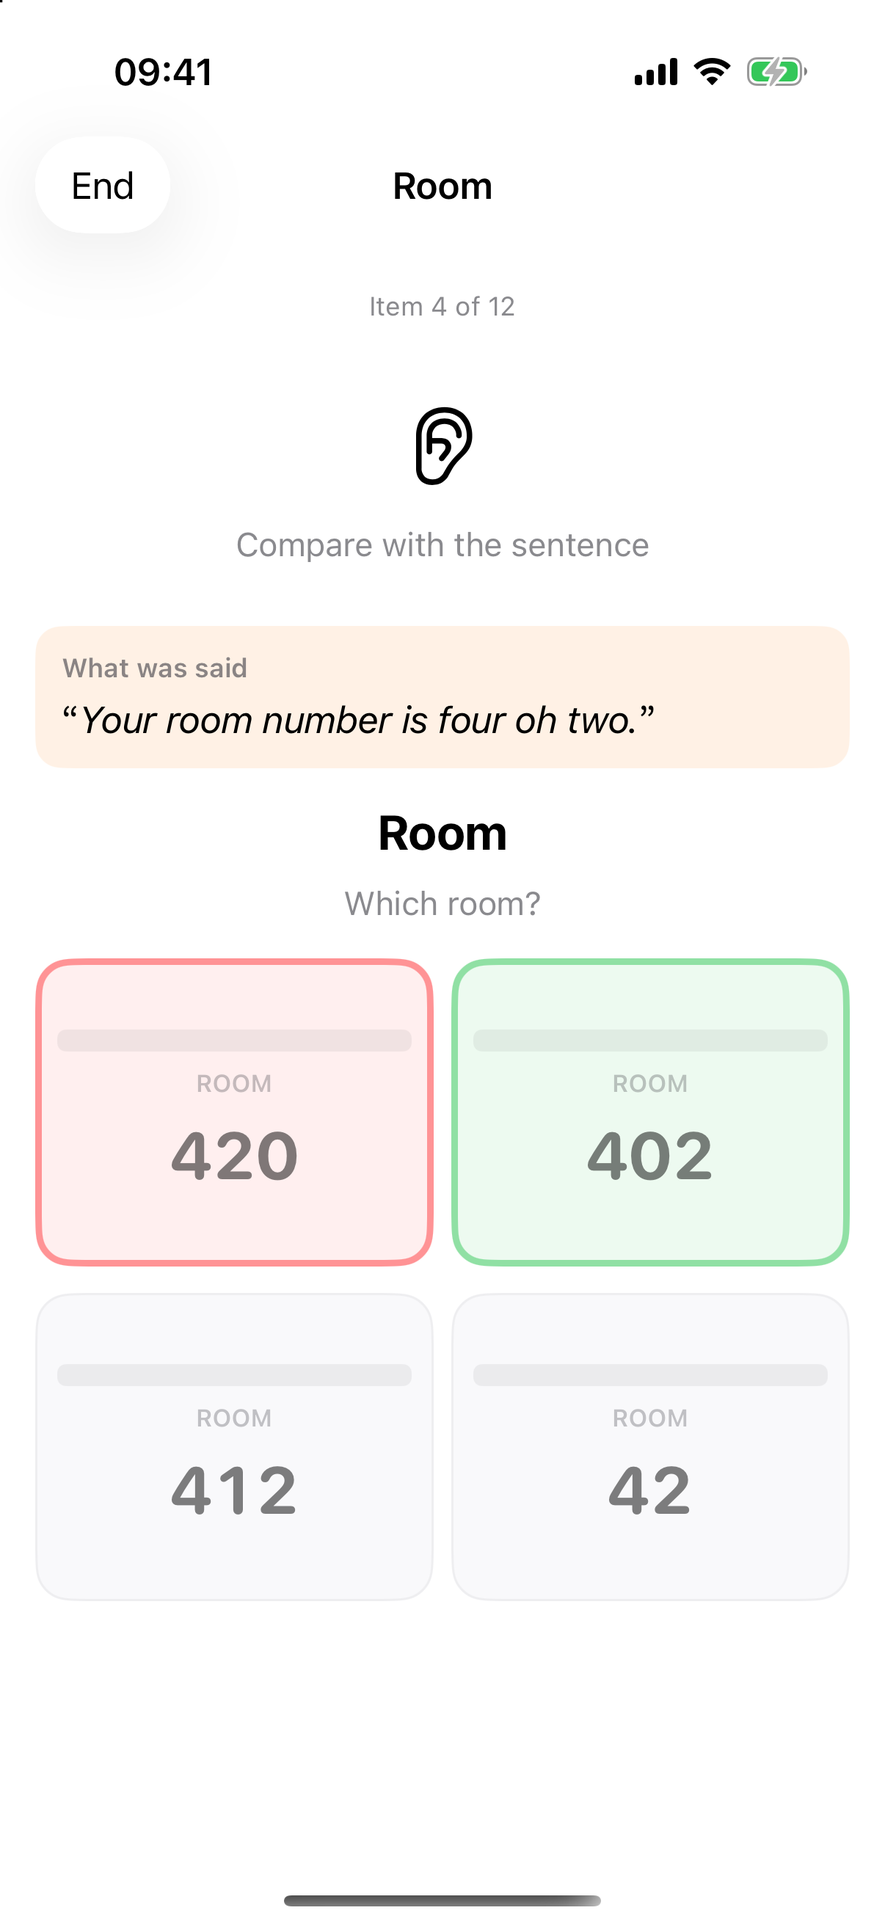
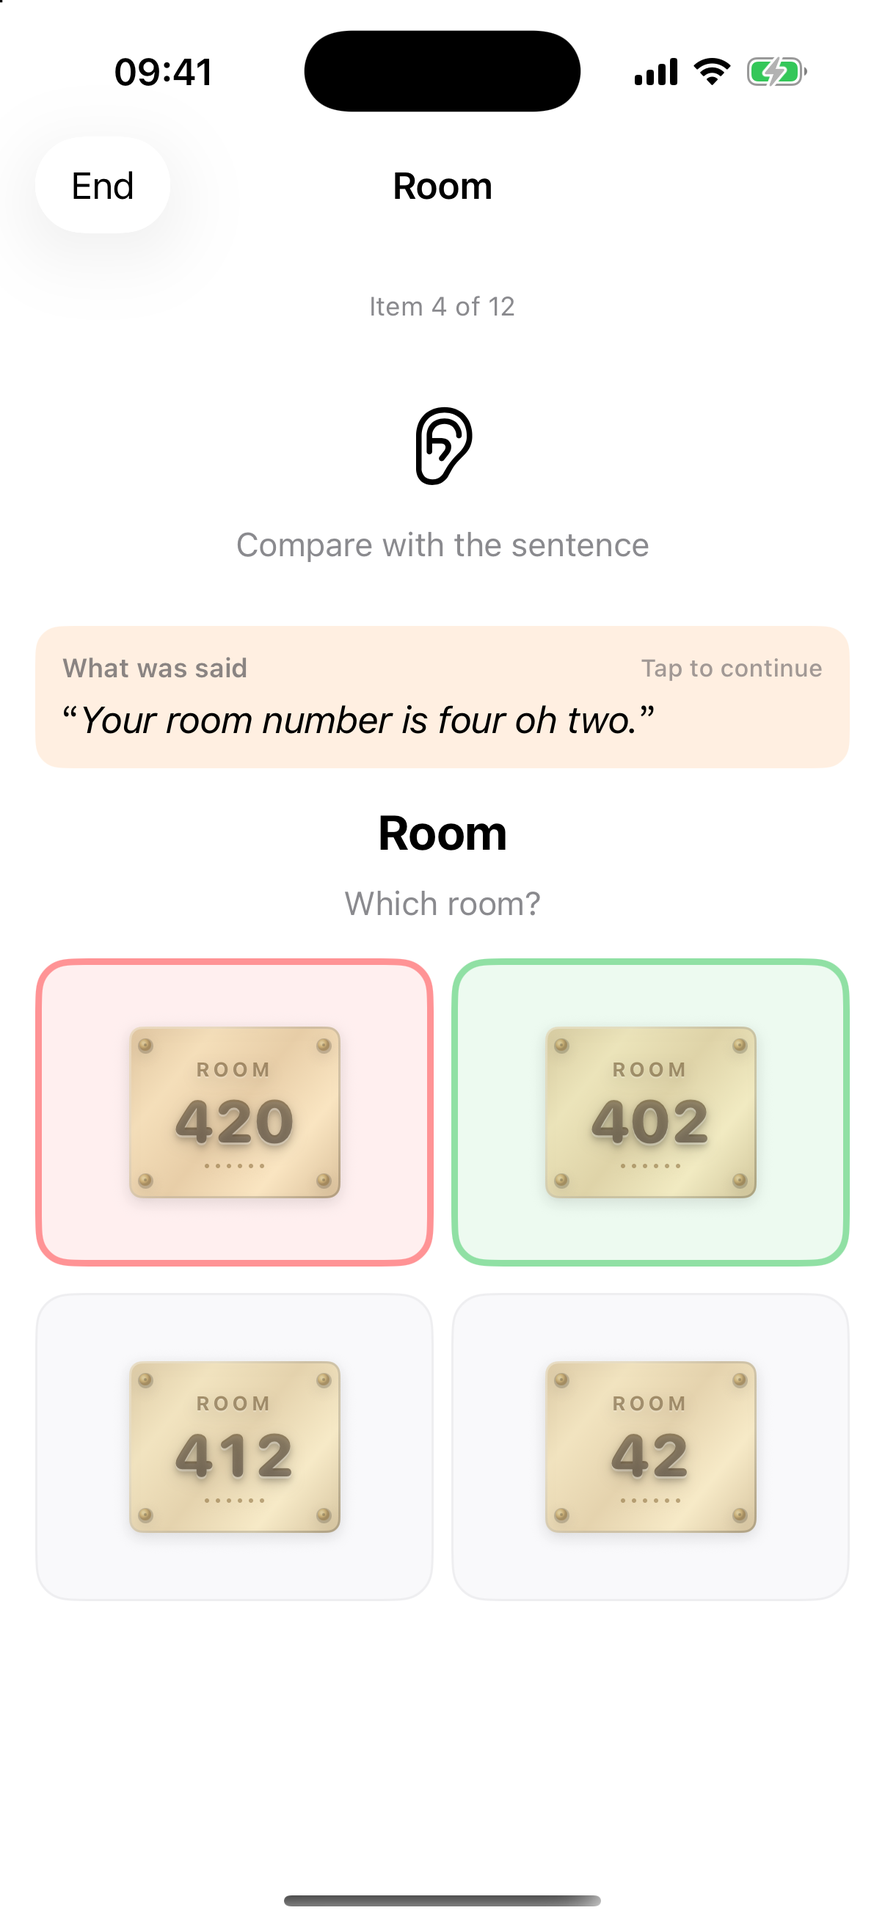
Update README with badges, feature details, and refreshed screenshots

diff --git a/NumSense/App/ScreenshotHelper.swift b/NumSense/App/ScreenshotHelper.swift
@@ -43,6 +43,7 @@ enum ScreenshotHelper {
                 model.queue = Array(repeating: item, count: 12)
                 model.itemIndex = 3
                 model.slotIndex = 0
+                model.itemSlotCorrect = [false]
                 let slot = item.slots[0]
                 let wrongChoice = slot.distractors.first ?? slot.value
                 model.live = LiveSlotState(
@@ -73,131 +74,80 @@ enum ScreenshotHelper {
         let cal = Calendar.current
         let now = Date()
 
-        for dayOffset in (0..<5).reversed() {
-            guard let sessionDate = cal.date(byAdding: .day, value: -dayOffset, to: now) else { continue }
-            let isToday = dayOffset == 0
-            let correctCount = isToday ? 11 : 10
+        // Daily median progression across 7 days: ~2.2s down to ~1.22s
+        let dayFactors: [Double] = [1.75, 1.55, 1.40, 1.25, 1.12, 1.05, 0.95]
 
-            let itemAttempts: [ItemAttemptRecord] = [
-                ItemAttemptRecord(
-                    id: UUID(),
-                    itemId: "time-0315-alt",
-                    scenario: "time",
-                    scriptText: "It's a quarter after three.",
-                    audioFile: "time-0315-alt.m4a",
-                    variantTags: ["quarter-after"],
-                    presentedAt: sessionDate,
-                    itemFirstListenCorrect: true,
-                    slotAttempts: [
-                        SlotAttemptRecord(
-                            id: UUID(),
-                            slotId: "t",
-                            slotIndex: 0,
-                            role: "clock",
-                            visual: "clock",
-                            correctValue: SlotValue(type: "clock", hour: 3, minute: 15),
-                            chosenValue: SlotValue(type: "clock", hour: 3, minute: 15),
-                            distractors: [],
-                            firstTapCorrect: true,
-                            responseMs: 1400,
-                            replayedAfterWrong: false,
-                            confusionTag: nil
-                        )
-                    ]
-                ),
-                ItemAttemptRecord(
-                    id: UUID(),
-                    itemId: "room-402-0",
-                    scenario: "room",
-                    scriptText: "Your room number is four oh two.",
-                    audioFile: "room-402-0.m4a",
-                    variantTags: [],
-                    presentedAt: sessionDate,
-                    itemFirstListenCorrect: false,
-                    slotAttempts: [
-                        SlotAttemptRecord(
-                            id: UUID(),
-                            slotId: "r",
-                            slotIndex: 0,
-                            role: "room",
-                            visual: "door",
-                            correctValue: SlotValue(type: "door", text: "402"),
-                            chosenValue: SlotValue(type: "door", text: "420"),
-                            distractors: [],
-                            firstTapCorrect: false,
-                            responseMs: 2100,
-                            replayedAfterWrong: true,
-                            confusionTag: "oh-vs-hundred"
-                        )
-                    ]
-                ),
-                ItemAttemptRecord(
-                    id: UUID(),
-                    itemId: "money-1250-8",
-                    scenario: "money",
-                    scriptText: "Twelve dollars and fifty cents.",
-                    audioFile: "money-1250-8.m4a",
-                    variantTags: [],
-                    presentedAt: sessionDate,
-                    itemFirstListenCorrect: true,
-                    slotAttempts: [
-                        SlotAttemptRecord(
-                            id: UUID(),
-                            slotId: "m",
-                            slotIndex: 0,
-                            role: "price",
-                            visual: "price",
-                            correctValue: SlotValue(type: "price", cents: 1250),
-                            chosenValue: SlotValue(type: "price", cents: 1250),
-                            distractors: [],
-                            firstTapCorrect: true,
-                            responseMs: 1200,
-                            replayedAfterWrong: false,
-                            confusionTag: nil
-                        )
-                    ]
-                ),
-                ItemAttemptRecord(
-                    id: UUID(),
-                    itemId: "mix-air-218-c18",
-                    scenario: "mixed",
-                    scriptText: "Flight two eighteen, gate C eighteen.",
-                    audioFile: "mix-air-218-c18.m4a",
-                    variantTags: ["airport"],
-                    presentedAt: sessionDate,
-                    itemFirstListenCorrect: true,
-                    slotAttempts: [
-                        SlotAttemptRecord(
-                            id: UUID(),
-                            slotId: "f",
-                            slotIndex: 0,
-                            role: "flight",
-                            visual: "flight",
-                            correctValue: SlotValue(type: "flight", text: "218"),
-                            chosenValue: SlotValue(type: "flight", text: "218"),
-                            distractors: [],
-                            firstTapCorrect: true,
-                            responseMs: 1600,
-                            replayedAfterWrong: false,
-                            confusionTag: nil
-                        ),
-                        SlotAttemptRecord(
-                            id: UUID(),
-                            slotId: "g",
-                            slotIndex: 1,
-                            role: "gate",
-                            visual: "gate",
-                            correctValue: SlotValue(type: "gate", letter: "C", number: 18),
-                            chosenValue: SlotValue(type: "gate", letter: "C", number: 18),
-                            distractors: [],
-                            firstTapCorrect: true,
-                            responseMs: 1500,
-                            replayedAfterWrong: false,
-                            confusionTag: nil
-                        )
-                    ]
-                )
+        for dayOffset in (0..<7).reversed() {
+            guard let sessionDate = cal.date(byAdding: .day, value: -dayOffset, to: now) else { continue }
+            let factorIndex = 6 - dayOffset
+            let speedFactor = dayFactors[factorIndex]
+            let isToday = dayOffset == 0
+
+            let items: [(itemId: String, sc: String, text: String, slots: [(role: String, visual: String, val: SlotValue, baseMs: Int, ok: Bool, tag: String?)])] = [
+                ("time-0315-alt", "time", "It's a quarter after three.", [("clock", "clock", SlotValue(type: "clock", hour: 3, minute: 15), 1250, true, nil)]),
+                ("room-402-0", "room", "Your room number is four oh two.", [("room", "door", SlotValue(type: "door", text: "402"), 1350, true, nil)]),
+                ("money-1250-8", "money", "Twelve dollars and fifty cents.", [("price", "price", SlotValue(type: "price", cents: 1250), 1080, true, nil)]),
+                ("travel-exit-14", "travel", "Take exit fourteen B.", [("exit", "exit", SlotValue(type: "exit", text: "14B"), 1180, true, nil)]),
+                ("mix-air-218-c18", "mixed", "Flight two eighteen, gate C eighteen.", [
+                    ("flight", "flight", SlotValue(type: "flight", text: "218"), 1400, true, nil),
+                    ("gate", "gate", SlotValue(type: "gate", letter: "C", number: 18), 1580, true, nil)
+                ]),
+                ("measures-temp-72", "measures", "It's seventy two degrees outside.", [("temperature", "temperature", SlotValue(type: "temperature", degrees: 72), 1220, true, nil)]),
+                ("date-oct-23", "date", "Our flight is on October twenty-third.", [("calendar", "calendar", SlotValue(type: "calendar", month: 10, day: 23), 1260, true, nil)]),
+                ("phone-chunk-800", "phone", "Call us at eight hundred, five five five.", [
+                    ("phone", "phone", SlotValue(type: "phone", text: "800"), 1320, true, nil),
+                    ("phone", "phone", SlotValue(type: "phone", text: "555"), 2150, isToday ? false : (dayOffset % 2 == 0), "speed-decay")
+                ]),
+                ("address-oak-742", "address", "Seven forty two Evergreen Terrace.", [("address", "address", SlotValue(type: "address", text: "742"), 1300, true, nil)]),
+                ("time-0845-0", "time", "It's eight forty-five.", [("clock", "clock", SlotValue(type: "clock", hour: 8, minute: 45), 1180, true, nil)])
             ]
+
+            var itemAttempts: [ItemAttemptRecord] = []
+            var sessionTotalSlots = 0
+            var sessionCorrectSlots = 0
+
+            for (itemId, sc, text, slotDefs) in items {
+                var slotRecords: [SlotAttemptRecord] = []
+                var itemCorrect = true
+                for (idx, slotDef) in slotDefs.enumerated() {
+                    let adjustedMs = Int(Double(slotDef.baseMs) * speedFactor)
+                    let slotOk = isToday ? slotDef.ok : (slotDef.ok && (dayOffset < 3 || idx == 0))
+                    if !slotOk { itemCorrect = false }
+                    sessionTotalSlots += 1
+                    if slotOk { sessionCorrectSlots += 1 }
+
+                    slotRecords.append(
+                        SlotAttemptRecord(
+                            id: UUID(),
+                            slotId: "\(idx)",
+                            slotIndex: idx,
+                            role: slotDef.role,
+                            visual: slotDef.visual,
+                            correctValue: slotDef.val,
+                            chosenValue: slotDef.val,
+                            distractors: [],
+                            firstTapCorrect: slotOk,
+                            responseMs: adjustedMs,
+                            replayedAfterWrong: !slotOk,
+                            confusionTag: slotDef.tag
+                        )
+                    )
+                }
+
+                itemAttempts.append(
+                    ItemAttemptRecord(
+                        id: UUID(),
+                        itemId: itemId,
+                        scenario: sc,
+                        scriptText: text,
+                        audioFile: "\(itemId).m4a",
+                        variantTags: [],
+                        presentedAt: sessionDate,
+                        itemFirstListenCorrect: itemCorrect,
+                        slotAttempts: slotRecords
+                    )
+                )
+            }
 
             let session = SessionRecord(
                 id: UUID(),
@@ -213,9 +163,9 @@ enum ScreenshotHelper {
                     sessionLength: 12,
                     playInSilentMode: true
                 ),
-                itemCount: 4,
-                slotCount: 12,
-                firstListenCorrectSlots: correctCount,
+                itemCount: itemAttempts.count,
+                slotCount: sessionTotalSlots,
+                firstListenCorrectSlots: sessionCorrectSlots,
                 itemAttempts: itemAttempts
             )
             log.append(session)

diff --git a/README.md b/README.md
@@ -1,47 +1,109 @@
 <p align="center">
-  <img src="design/AppIcon-preview-rounded.png" width="128" height="128" alt="NumSense">
+  <img src="design/AppIcon-preview-rounded.png" width="128" height="128" alt="NumSense"><br/>
+  <a href="https://developer.apple.com/ios/"><img src="https://img.shields.io/badge/Platform-iOS%2017.0%2B-007AFF?style=flat-square&logo=apple&logoColor=white" alt="iOS 17+"></a>
+  <a href="https://swift.org"><img src="https://img.shields.io/badge/Swift-5.9%2B-F05138?style=flat-square&logo=swift&logoColor=white" alt="Swift 5.9+"></a>
+  <a href="https://developer.apple.com/xcode/swiftui/"><img src="https://img.shields.io/badge/SwiftUI-Charts-FF5A00?style=flat-square&logo=swift&logoColor=white" alt="SwiftUI & Swift Charts"></a>
+  <a href="https://elevenlabs.io"><img src="https://img.shields.io/badge/Audio-ElevenLabs%20Speech-black?style=flat-square" alt="ElevenLabs Speech"></a>
+  <a href="LICENSE"><img src="https://img.shields.io/badge/License-MIT-34C759?style=flat-square" alt="MIT License"></a>
+  <img src="https://img.shields.io/badge/Privacy-100%25%20Offline%20%2F%20Zero%20Tracking-blueviolet?style=flat-square" alt="100% Offline">
 </p>
 
 # NumSense · 数字语感
 
 听一遍美式口语里的数字，当场当成信息留下来——几点、几号房、多少钱、哪个登机口。
 
-英语数字常常听得懂，却转眼就忘，或要先在脑子里翻成中文才记得住。NumSense 练的是把听到的数字直接留成可用信息，再在钟面、日历、门牌、价签这些画面上认出来。
+英语数字常常“听得懂，转眼忘”，或者必须在脑子里先翻成中文才能反应。**NumSense** 专为重塑**直觉数字语感**而生：跳过脑内中文转译，把听到的数字直接映射为真实生活场景中的画面，专项锻炼听觉短时工作记忆与毫秒级直觉反应力。
 
-本 App **不上架 App Store**，用 Xcode 自签名装到 iPhone 即可。主屏幕名称是「数字语感」，界面为英文。
+本 App **不上架 App Store**，用个人 Apple ID 自签名即可装到任意 iPhone。主屏幕名称为「数字语感」，界面为英文。
+
+---
 
 ## 界面预览
 
-| 主界面 | 钟面时间识别 | 复合场景分步识别 |
+| 主界面 | 钟面时间直觉反应 | 复合场景分步识别 |
 | :---: | :---: | :---: |
-| <img src="docs/screenshots/01-home.png" width="240" alt="主界面" /> | <img src="docs/screenshots/02-practice-clock.png" width="240" alt="钟面时间识别" /> | <img src="docs/screenshots/03-practice-multistep.png" width="240" alt="复合场景分步识别" /> |
-| 快速开始与近期训练统计 | 听口语时间，直觉反应表盘 | 航班与登机口多信息留存 |
+| <img src="docs/screenshots/01-home.png" width="240" alt="主界面" /> | <img src="docs/screenshots/02-practice-clock.png" width="240" alt="钟面时间直觉反应" /> | <img src="docs/screenshots/03-practice-multistep.png" width="240" alt="复合场景分步识别" /> |
+| 极简开始与 7 天连续训练打卡 | 真实拟物表盘与物理指针映射 | 航班号与登机口多信息留存 |
 
-| 即时纠错与原文对照 | 单次训练小结 | 本地长期统计 |
+| 即时纠错与原句对照 | 训练小结与心流节奏 | 多维语感长期趋势 |
 | :---: | :---: | :---: |
-| <img src="docs/screenshots/04-feedback.png" width="240" alt="即时纠错与原文对照" /> | <img src="docs/screenshots/05-summary.png" width="240" alt="单次训练小结" /> | <img src="docs/screenshots/06-stats.png" width="240" alt="本地长期统计" /> |
-| 标出正误并提供原句反馈 | 场景得分与一键复习错题 | 7天/30天正确率与易混项分析 |
+| <img src="docs/screenshots/04-feedback.png" width="240" alt="即时纠错与原句对照" /> | <img src="docs/screenshots/05-summary.png" width="240" alt="训练小结与心流节奏" /> | <img src="docs/screenshots/06-stats.png" width="240" alt="多维语感长期趋势" /> |
+| 黄铜质感门牌与原句对比回放 | 每题反应时柱状图与语感等级徽章 | 每日反应时曲线（直指 1.5s 目标） |
 
-## 怎么练
+---
 
-每次播一句日常语速的美式英语。停一秒后，出现 2×2 图像选项；一句里有多个数字，就按顺序分步问。点对进入下一题；点错会立刻标出正确图，并再播一遍作为反馈。没听清时，点耳朵图标可以再听。
+## 核心特性
 
-一次大约 8、12 或 20 题，几分钟就能练完。可按场景筛选：时间、日期、钱、房号、出行、电话、地址、计量，或把几种数字混在一句里。
+- 🎙 **ElevenLabs 真人级自然美音**：基于 ElevenLabs 录制的纯正自然美式口语，保留生活语速中的真实连读、弱读与吞音，带来原汁原味的声音输入。
+- 🎨 **沉浸式拟物化视觉（Skeuomorphic Design）**：
+  - **金属拉丝指针钟表**：金属表圈、精细刻度与立体阴影，建立时间听觉与表盘画面的直觉反射。
+  - **黄铜复古门牌**：金属拉丝纹理、立体雕刻数字与固定螺栓，逼真还原酒店与公寓门牌。
+  - **机场航显与导向标牌**：经典黑底明黄 LED 航班牌与悬挂式登机口标识牌。
+  - **真实质感标价签**：棉绳穿孔、条形码与标签纹理，模拟真实收银与商超价签。
+  - **公路与行车路牌**：美国州际公路盾形路标（Interstate Shields）与高速绿色出口导向牌。
+  - **汽车仪表盘与测量表**：红针测速表（Speedometer）、水银温度计、弹簧圆盘体重秤、加油机计量屏与机械胎压表等。
+- 🧠 **短时听觉工作记忆训练（Working Memory Retention）**：
+  - 支持单句包含多重数字的复合场景（如“Flight 218, gate C 18”、区号+电话分段、日期+时间等）。
+  - 音频播放后依次分步提问，深度锻炼听觉短时工作记忆，彻底摆脱“听到后面忘了前面”的痛点。
+- ⚡ **毫秒级反应时与语感三境界（Reaction Time & Speed Tiers）**：
+  - 精确采集每次作答的反应毫秒数（Response Time），将语感能力科学量化：
+    - ⚡ **直觉神速（Reflex, < 1.5s）**：条件反射，不经中英转换的真正“英语思维”。
+    - 🐇 **顺畅反应（Fluent, 1.5s - 2.5s）**：流利反应，偶有极轻微心智迟疑。
+    - 🐢 **思考心译（Deliberate, > 2.5s）**：在脑内先翻译成中文，尚未形成直觉联结。
+- 📊 **Swift Charts 多维语感深度洞察**：
+  - **答题心流小结（Pace & Rhythm）**：单次训练后以柱状图逐题展现反应速度波动，标出中位数基准线与错题。
+  - **每日速度下潜趋势（Daily Speed Trend）**：以 Catmull-Rom 平滑曲线追踪每日中位数反应时，直观见证突破 1.5s 直觉目标。
+  - **语感四象限分析（Fluency Quadrants）**：将各场景按「速度 × 正确率」绘制分布图（直觉区、转译区、冲动区、超载区）。
+  - **连续多步记忆衰减（Sequential Memory Decay）**：对比多步槽位（Slot 1 vs Slot 2+）的耗时与正确率，量化听觉遗忘曲线。
+- 💬 **即时纠错与原文对照（Spoken Transcript Review）**：
+  - 答对丝滑流转；答错即时高亮正确选项并播音复盘。每题答完后弹出原句对照（“What was said”），支持一键点击重新听音。
+- 🔒 **100% 本地与隐私安全（Privacy-First）**：
+  - 零网络权限请求、零第三方 SDK、无任何埋点统计；全部训练记录离线保存于本地，随时支持一键导出标准 JSON 与 CSV 明细。
 
-每一次作答都记在本机，可看正确率、连续天数和错题，也可导出 JSON / CSV。没有账号，数据不会上传。
+---
+
+## 9 大日常场景覆盖
+
+| 场景 | 核心体验 | 经典听觉表达 |
+| :--- | :--- | :--- |
+| 🕒 **时间 (Time)** | 拟物钟表盘、分秒时钟 | *a quarter after three*, *eight forty-five*, *half past seven* |
+| 📅 **日期 (Date)** | 日历台历与翻页便签 | *October twenty-third*, *July fourth*, *the second of May* |
+| 💵 **金钱 (Money)** | 美式价签与收银小票 | *twelve dollars and fifty cents*, *two-fifty*, *ninety-nine cents* |
+| 🚪 **房号 (Room)** | 黄铜酒店门牌、公寓门号 | *room four oh two*, *suite three twelve*, *room five twenty-one* |
+| ✈ **出行 (Travel)** | 机场航显屏、登机口标牌、高速 Exit 牌 | *flight two eighteen, gate C eighteen*, *take exit fourteen B* |
+| 📞 **电话 (Phone)** | 分段式电话键位显示 | *eight hundred, five five five*, *area code four one five* |
+| 🏠 **地址 (Address)** | 欧美街道门牌号 | *seven forty-two Evergreen Terrace*, *fifteen thirty-six Elm St* |
+| ⚖ **计量 (Measures)** | 汽车仪表速度计、水银温度计、圆盘体重秤、加油机、胎压表 | *sixty-five mph*, *seventy-two degrees*, *thirty-two psi* |
+| 🔀 **复合 (Mixed)** | 跨场景多数字组合输入 | 多信息连续留存，检验工作记忆负荷下的高压直觉反应 |
+
+---
+
+## 训练节奏与方式
+
+1. **听一段**：每次播放一句日常语速的美式英语。
+2. **留一秒**：音频结束后停顿 1 秒，让大脑在没有视觉干扰的前提下留存声音信息。
+3. **选画面**：呈现 2×2 真实拟物化选项；若单句包含多个数字，按先后顺序逐步考查。
+4. **即时反馈**：点对立即进入下一步；点错会红绿对比标出正误，并提示原句音频与文字对照。
+5. **轻松无负担**：单次训练推荐 8、12 或 20 题，碎片化 2~3 分钟即可完成一次高效语感神经突触强化。
+
+---
 
 ## 在 iPhone 上自签名安装
 
-需要 [Xcode 27](https://developer.apple.com/xcode/) 和一台运行 **iOS 17 或更高** 的 iPhone。用你的 Apple ID 签名即可，不必加入付费开发者计划。
+只需一台 Mac 电脑、[Xcode 15+](https://developer.apple.com/xcode/) 以及一台运行 **iOS 17.0 或更高版本** 的 iPhone。使用个人的普通 Apple ID 即可，**无需购买任何付费苹果开发者账号**。
 
-1. USB 连接 iPhone，首次连接时在手机上信任这台电脑。
-2. 打开 `NumSense.xcodeproj`，Scheme 选 **NumSense**，设备选你的 iPhone。
-3. Signing 选你的个人团队（Automatic Signing）。
-4. Product → Run。
-5. 首次安装后：设置 → 通用 → VPN 与设备管理 → 信任该开发者。
+1. 用数据线将 iPhone 连接至 Mac，手机上弹出提示时选择「信任此电脑」。
+2. 双击打开项目根目录下的 `NumSense.xcodeproj`。
+3. 在 Xcode 顶部导航栏，Scheme 选 **NumSense**，目标设备选择你连接的 iPhone。
+4. 在工程设置的 **Signing & Capabilities** 中，Team 选中你的个人 Apple ID 团队（勾选 *Automatically manage signing*）。
+5. 点击 Xcode 左上角的 **▶ (Run)** 按钮开始构建并安装至手机。
+6. 首次安装完成后，在手机上前往：**设置 → 通用 → VPN 与设备管理 → 开发者 App**，点击信任你的个人证书即可打开使用。
 
-免费个人证书大约 7 天到期，到期后重新 Run 即可。付费 Apple Developer 账号可签一年。
+> [!TIP]
+> 免费个人开发者证书有效期通常为 7 天，到期后重新用 Xcode 点击 Run 安装即可自动续期；若拥有付费 Apple Developer 账号，自签名有效期可长达 1 年。
 
-## License
+---
 
-[MIT](LICENSE)
+## 开源协议
+
+本项目基于 [MIT 许可证](LICENSE) 开源。
